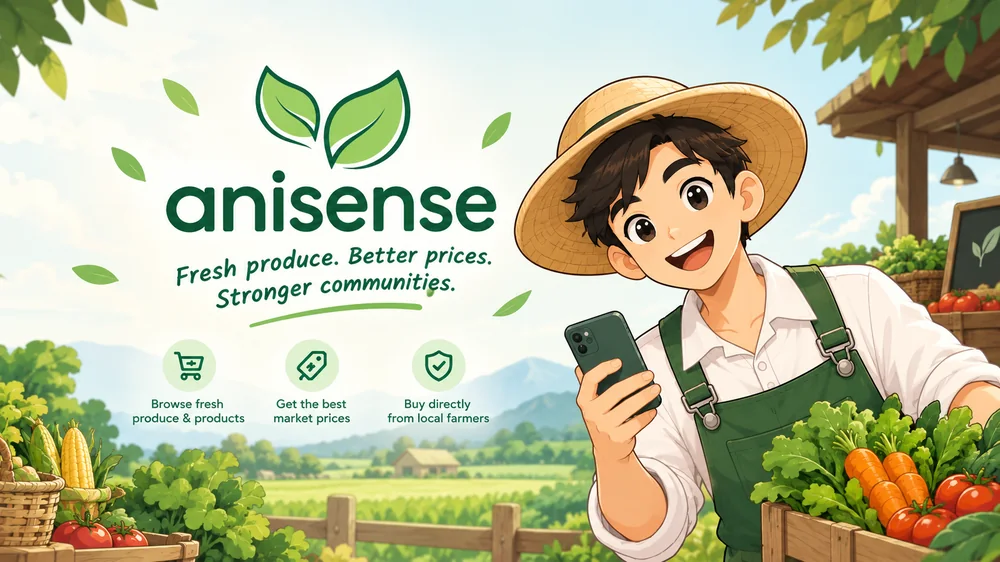
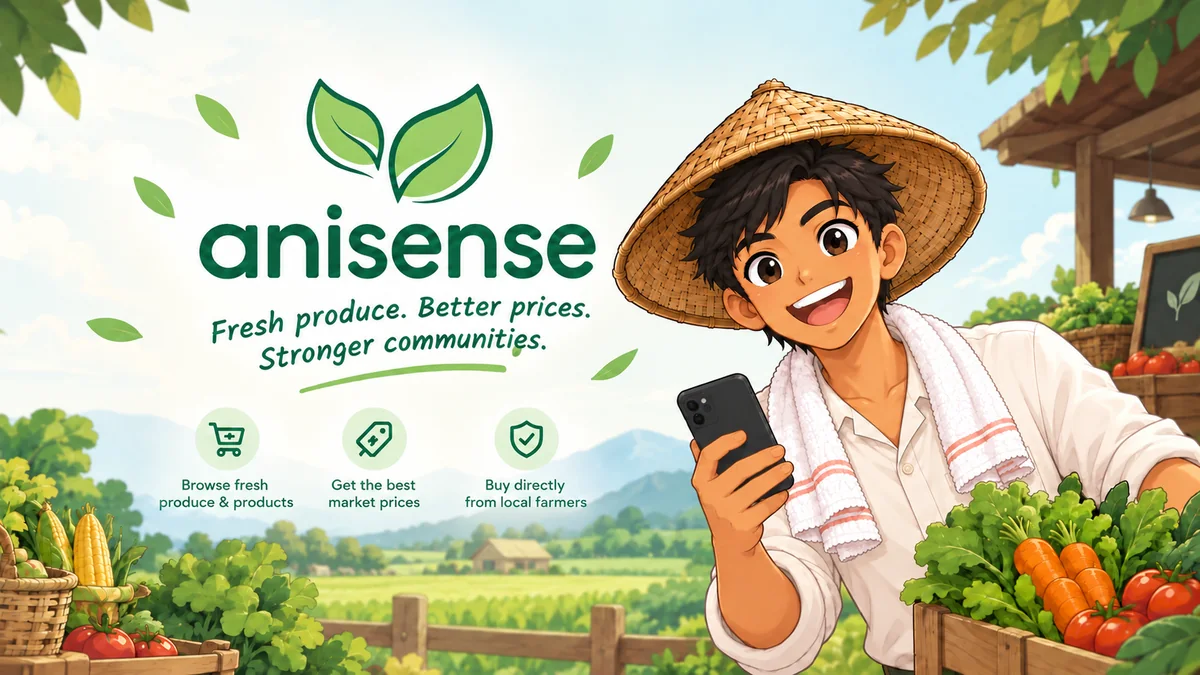
Posters and welcome wallpaper: the app's copies made from the updated originals

diff --git a/src/i18n.tsx b/src/i18n.tsx
@@ -322,8 +322,8 @@ export const translations: Dict = {
   home_poster_view: { en: "Tap to see the whole poster.", tl: "Pindutin para makita ang buong poster." },
   pv_hint: { en: "Tap twice or pinch to zoom in", tl: "Pindutin nang dalawang beses o i-pinch para lumaki" },
   poster_alt: {
-    en: "AniSense: fresh produce, better prices, stronger communities. Browse the marketplace.",
-    tl: "AniSense: sariwang ani, mas magandang presyo, mas matibay na komunidad. Buksan ang bentahan.",
+    en: "AniSense: fresh produce, better prices, stronger communities. Browse fresh produce, get the best market prices, and buy directly from local farmers. A smiling farmer holds up a phone.",
+    tl: "AniSense: sariwang ani, mas magandang presyo, mas matibay na komunidad. Tumingin ng sariwang ani, kunin ang pinakamagandang presyo, at bumili nang direkta sa lokal na magsasaka. Isang nakangiting magsasaka na may hawak na telepono.",
   },
   home_search_ph: { en: "Search rice, onions, or a farmer", tl: "Maghanap ng bigas, sibuyas, o magsasaka" },
   home_shop_by_crop: { en: "Browse marketplace", tl: "Tumingin sa merkado" },

diff --git a/src/screens/HomeScreen.tsx b/src/screens/HomeScreen.tsx
@@ -159,7 +159,7 @@ export function HomeScreen({ onNavigate, onShop, onProfile, onReplayTour, isOffl
         {isBuyer && (
           <PosterCarousel posters={[
             { src: homePoster, alt: t("home_poster_alt"), width: 1000, height: 500 },
-            { src: anisensePoster, alt: t("poster_alt"), width: 1000, height: 562, position: "50% 35%" },
+            { src: anisensePoster, alt: t("poster_alt"), width: 1200, height: 675, position: "50% 35%" },
           ]} />
         )}
 
@@ -307,7 +307,7 @@ export function HomeScreen({ onNavigate, onShop, onProfile, onReplayTour, isOffl
             poster's shape before the image loads, so nothing below jumps. */}
         {!isBuyer && (
           <figure className="hm-poster">
-            <img src={anisensePoster} alt={t("poster_alt")} width={1000} height={562} loading="lazy" decoding="async" />
+            <img src={anisensePoster} alt={t("poster_alt")} width={1200} height={675} loading="lazy" decoding="async" />
           </figure>
         )}
 

diff --git a/src/screens/TradeScreen.tsx b/src/screens/TradeScreen.tsx
@@ -438,7 +438,7 @@ export function TradeScreen({ onProfile, onBack, userName = "Juan Dela Cruz", us
         <figure className="mp-poster">
           {userRole === "buyer"
             ? <img src={marketPoster} alt={t("mp_poster_alt")} width={1200} height={675} decoding="async" />
-            : <img src={sellPoster} alt={t("mp_poster_sell_alt")} width={1000} height={562} decoding="async" />}
+            : <img src={sellPoster} alt={t("mp_poster_sell_alt")} width={1200} height={675} decoding="async" />}
         </figure>
 
         {userRole !== "buyer" && (

diff --git a/design/artwork/README.md b/design/artwork/README.md
@@ -8,21 +8,26 @@ a second of loading for a picture that renders 380 pixels wide.
 | Source here | Used by the app as | Where it appears |
 |---|---|---|
 | `AniSenseWallpaper.png` | `src/assets/anisense-wallpaper.webp` | Welcome screen, full-bleed behind the two sign-up buttons |
-| `AnisensePosterLS.png` | `src/assets/anisense-poster.webp` | Buyer Home, between the price chart and Featured farmers |
-| `AnisensePosterMarket.png` | *(unused — identical to `AnisensePosterLS.png`)* | — |
-| `FarmerMarketPoster.png` | `src/assets/farmer-market-poster.webp` | Marketplace poster, farmer accounts (16:9, the same frame as the buyers' poster) |
+| `AnisensePosterLS.png` | `src/assets/anisense-poster.webp` (1200 wide) | Buyer Home, the second poster in the banner under the search bar; farmer Home, partway down |
+| `FarmerMarketPoster.png` | `src/assets/farmer-market-poster.webp` (1200 wide) | Marketplace poster, farmer accounts (16:9, the same frame as the buyers' poster) |
 | `MarketplaceBuyerPoster.png` | `src/assets/anisense-poster-market.webp` (1200 wide: the poster carries a lot of text) | Marketplace poster, buyer accounts: "Fresh from the Farm. Connect directly with local farmers" |
-| `SellYourAniNow.png` | *(replaced by `FarmerMarketPoster.png`; its `sell-your-ani.webp` was removed)* | — |
 | `FarmerMarketSell.png` | `src/assets/farmer-sell.webp` *(not used by any screen)* | — |
 | `Peeking.png` | `src/assets/juan-peek.webp`, split into `juan-peek-body.webp` + `juan-peek-hand.webp` (+ `juan-peek-mouth-half.webp`, `juan-peek-mouth-shut.webp`: drawn half-open mouth and closed smile) | Signup screens (language, role); the hand layer waves from the wrist, and the mouth layers switch in turn so he says each line, then stops |
 | `CarryingBasket.png` (its "transparent" checkerboard was painted in; cut out) | `src/assets/mascot-basket.webp` (+ `-blink`, `-mouth-half`, `-mouth-shut`: drawn closed lids, half-open mouth, closed smile) | Today's market card on Prices; blinks and talks on a loop |
-| `buyersmascot.png` | `src/assets/buyer-mascot.webp` (+ `buyer-mascot-eyes.webp`, `buyer-mascot-mouth.webp`: drawn closed lids and closed smile) | "Fresh from local farms" card, buyer Home; on the role screen he blinks and talks |
-| `mascothi.png` → `mascothi-clean.png` (extra hat lobe removed) | `src/assets/mascot-wave-body.webp` + `-hand` + `-eyes` + `-mouth` | Opening card of the walkthrough: the hand rotates from the wrist; `-eyes` (closed lids) and `-mouth` (closed smile) are drawn overlays that switch on to blink and talk |
-| `mascotthumbsup.png` → `mascotthumbsup-cut.png` (white background removed) | `src/assets/mascot-thumbs.webp` + `mascot-thumbs-eyes.webp` | Last card of the walkthrough; `-eyes` (closed lids) switches on to blink |
+| `buyersmascot.png` | `src/assets/buyer-mascot.webp` (+ `buyer-mascot-eyes.webp`, `buyer-mascot-mouth.webp`: drawn closed lids and closed smile) | The role screen when creating an account: he blinks and talks |
+| `mascothi-clean.png` (extra hat lobe removed; the uncleaned original is no longer kept) | `src/assets/mascot-wave-body.webp` + `-hand` + `-eyes` + `-mouth` | Opening card of the walkthrough: the hand rotates from the wrist; `-eyes` (closed lids) and `-mouth` (closed smile) are drawn overlays that switch on to blink and talk |
+| `mascotthumbsup-cut.png` (white background removed; the original is no longer kept) | `src/assets/mascot-thumbs.webp` + `mascot-thumbs-eyes.webp` | Last card of the walkthrough; `-eyes` (closed lids) switches on to blink |
 
 ## Adding or replacing one
 
-Drop the full-size file here, then convert it into `src/assets/` before using it:
+**Replacing a PNG here changes nothing in the app by itself.** The app shows the
+`.webp` in `src/assets/`, so after dropping in the new full-size file:
+
+1. convert it over that `.webp` (below), then
+2. build a new APK (`npm run build`, `npx cap sync android`,
+   `.\android\gradlew.bat -p android assembleDebug`) and install it.
+
+To convert:
 
 ```bash
 python -c "from PIL import Image; im=Image.open('design/artwork/NEW.png').convert('RGB'); w=1000; im.resize((w, round(im.height*w/im.width)), Image.LANCZOS).save('src/assets/new.webp','WEBP',quality=84,method=6)"
